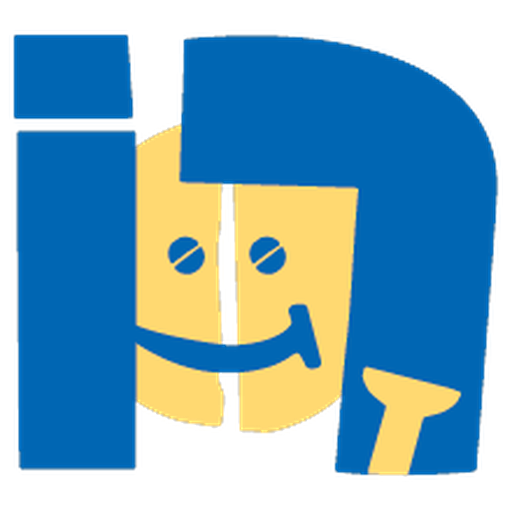
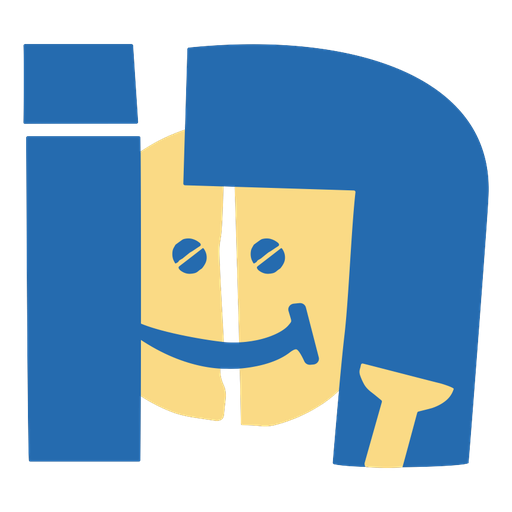
스마일 마크 — 벡터 원본에서 파비콘 세트(ico·32·apple-touch·192·512·manifest) 생성, 페이지 다섯 자리에 서명처럼 배치

diff --git a/index.html b/index.html
@@ -20,11 +20,14 @@
   <meta property="og:image:width" content="1200">
   <meta property="og:image:height" content="630">
   <meta name="twitter:card" content="summary_large_image">
-  <link rel="icon" href="favicon.png" type="image/png">
-  <link rel="apple-touch-icon" href="favicon.png">
   <link rel="preload" href="/fonts/a2z-400.woff2" as="font" type="font/woff2" crossorigin>
   <link rel="preload" href="/fonts/a2z-700.woff2" as="font" type="font/woff2" crossorigin>
-  <link rel="stylesheet" href="v6.css?v=81">
+  <link rel="stylesheet" href="v6.css?v=82">
+  <link rel="icon" href="/favicon.ico" sizes="48x48">
+  <link rel="icon" href="/favicon-32.png" type="image/png" sizes="32x32">
+  <link rel="apple-touch-icon" href="/apple-touch-icon.png">
+  <link rel="manifest" href="/site.webmanifest">
+  <meta name="theme-color" content="#FAF5EA">
 </head>
 <body>
 
@@ -98,7 +101,7 @@
         <p class="host__d">이 가치는 제가 만들어낸 게 아니에요. 넷째를 안고 물었던 질문, 시각디자이너로 해외에서 여러 일을 지나온 시간, 그리고 3년 동안 쪼이들 곁에서 본 것들이 쌓여서 된 거예요. 새로운 재료 앞에서 생각이 넓어진다는 걸, 제 삶으로 먼저 겪었으니까요.</p>
         <p class="host__d">인조이풀은 완성된 답을 파는 곳이 아니라, 저의 연구실이자 모든 사람의 작업실이에요. 오는 분들과 함께 쌓아가는 중입니다.</p>
         <p class="host__d">결과가 아니라 몰입 자체가 행복인 시간. 나의 이야기를 써내려갈 수 있도록 준비해 두었어요.</p>
-        <p class="host__d">인조이풀에서 만나요.</p>
+        <p class="host__d host__sign">인조이풀에서 만나요. <img class="mark-sm" src="/mark.png" alt="" aria-hidden="true"></p>
         <p class="host__cta">
           <a class="btn btn--ink btn--sm" href="/about/">인조이풀 소개 <i>→</i></a>
           <a class="btn btn--kakao btn--sm" href="/menu/">행복맛집 구경하기 <i>→</i></a>
@@ -284,7 +287,7 @@
       <a href="https://pf.kakao.com/_VgyqG" rel="noopener" target="_blank">카카오 채널</a>
       <a href="/en/" lang="en">English</a>
     </p>
-    <p class="foot__copy">ⓒ in:JOYFULL · CREA:D</p>
+    <p class="foot__copy"><img class="mark-xs" src="/mark.png" alt="" aria-hidden="true"> ⓒ in:JOYFULL · CREA:D</p>
   </footer>
 
   <script>

diff --git a/letters/index.html b/letters/index.html
@@ -5,9 +5,8 @@
   <meta name="viewport" content="width=device-width, initial-scale=1.0">
   <meta name="robots" content="noindex, nofollow">
   <title>인조이풀 레터 | 인조이풀</title>
-  <link rel="icon" href="/favicon.png" type="image/png">
   <link rel="preload" href="/fonts/a2z-400.woff2" as="font" type="font/woff2" crossorigin>
-  <link rel="stylesheet" href="/v6.css?v=81">
+  <link rel="stylesheet" href="/v6.css?v=82">
   <style>
     .lt { max-width: 44rem; margin: 0 auto; padding: 8.5rem var(--pad) 4rem; }
     .lt__head { text-align: center; }
@@ -58,6 +57,11 @@
     .viewer__wait { position: absolute; left: 0; right: 0; top: 50%; text-align: center; color: var(--paper); font-weight: 300; font-size: 0.95rem; }
     [hidden] { display: none !important; }
   </style>
+  <link rel="icon" href="/favicon.ico" sizes="48x48">
+  <link rel="icon" href="/favicon-32.png" type="image/png" sizes="32x32">
+  <link rel="apple-touch-icon" href="/apple-touch-icon.png">
+  <link rel="manifest" href="/site.webmanifest">
+  <meta name="theme-color" content="#FAF5EA">
 </head>
 <body>
 
@@ -88,6 +92,7 @@
     <div id="lock" hidden>
       <div class="lock">
         <h2 id="lockName">반 이름</h2>
+        <img class="mark-md mark-md--c" src="/mark.png" alt="" aria-hidden="true">
         <p>반에 안내드린 암호를 넣어주세요. 암호는 이 화면에서만 쓰이고 어디에도 저장되지 않아요.</p>
         <form class="lock__row" id="lockForm">
           <input id="pw" type="password" placeholder="암호" autocomplete="off" autocapitalize="off" spellcheck="false">
@@ -134,7 +139,7 @@
       <a href="https://pf.kakao.com/_VgyqG" rel="noopener" target="_blank">카카오 채널</a>
       <a href="/en/" lang="en">English</a>
     </p>
-    <p class="foot__copy">ⓒ in:JOYFULL · CREA:D</p>
+    <p class="foot__copy"><img class="mark-xs" src="/mark.png" alt="" aria-hidden="true"> ⓒ in:JOYFULL · CREA:D</p>
   </footer>
 
   <script>

diff --git a/test/index.html b/test/index.html
@@ -13,9 +13,8 @@
   <meta property="og:url" content="https://injoyfull.github.io/test/">
   <meta property="og:locale" content="ko_KR">
   <meta property="og:image" content="https://injoyfull.github.io/og.png?v=3">
-  <link rel="icon" href="/favicon.png" type="image/png">
   <link rel="preload" href="/fonts/a2z-400.woff2" as="font" type="font/woff2" crossorigin>
-  <link rel="stylesheet" href="/v6.css?v=81">
+  <link rel="stylesheet" href="/v6.css?v=82">
   <style>
     :root { --touch: #F0913F; --sound: #21A79A; --sight: #E86F92; --rhythm: #96B62B; }
     .quiz { max-width: 38rem; margin: 0 auto; padding: 8.5rem var(--pad) 4rem; text-align: center; }
@@ -81,6 +80,11 @@
     .rcard__tag { display: inline-block; margin-top: 0.6rem; font-weight: 400; font-size: 0.74rem; letter-spacing: 0.08em; padding: 0.3rem 0.75rem; border-radius: 999px; background: var(--butter-soft); color: var(--ink-soft); }
     [hidden] { display: none !important; }
   </style>
+  <link rel="icon" href="/favicon.ico" sizes="48x48">
+  <link rel="icon" href="/favicon-32.png" type="image/png" sizes="32x32">
+  <link rel="apple-touch-icon" href="/apple-touch-icon.png">
+  <link rel="manifest" href="/site.webmanifest">
+  <meta name="theme-color" content="#FAF5EA">
 </head>
 <body>
 
@@ -186,7 +190,7 @@
       <a href="https://pf.kakao.com/_VgyqG" rel="noopener" target="_blank">카카오 채널</a>
       <a href="/en/" lang="en">English</a>
     </p>
-    <p class="foot__copy">ⓒ in:JOYFULL · CREA:D</p>
+    <p class="foot__copy"><img class="mark-xs" src="/mark.png" alt="" aria-hidden="true"> ⓒ in:JOYFULL · CREA:D</p>
   </footer>
 
   <script>

diff --git a/menu/index.html b/menu/index.html
@@ -13,9 +13,13 @@
   <meta property="og:url" content="https://injoyfull.github.io/menu/">
   <meta property="og:locale" content="ko_KR">
   <meta property="og:image" content="https://injoyfull.github.io/og.png?v=3">
-  <link rel="icon" href="/favicon.png" type="image/png">
   <link rel="preload" href="/fonts/a2z-400.woff2" as="font" type="font/woff2" crossorigin>
-  <link rel="stylesheet" href="/v6.css?v=81">
+  <link rel="stylesheet" href="/v6.css?v=82">
+  <link rel="icon" href="/favicon.ico" sizes="48x48">
+  <link rel="icon" href="/favicon-32.png" type="image/png" sizes="32x32">
+  <link rel="apple-touch-icon" href="/apple-touch-icon.png">
+  <link rel="manifest" href="/site.webmanifest">
+  <meta name="theme-color" content="#FAF5EA">
 </head>
 <body>
 
@@ -34,6 +38,7 @@
   <main>
   <section class="menu">
     <div class="menu__head">
+      <img class="mark-md mark-md--c" src="/mark.png" alt="" aria-hidden="true">
       <span class="eyebrow">한나의 행복상자</span>
       <h1>행복 맛집 이야기</h1>
       <div class="menu__rule" aria-hidden="true"></div>
@@ -249,7 +254,7 @@
       <a href="https://pf.kakao.com/_VgyqG" rel="noopener" target="_blank">카카오 채널</a>
       <a href="/en/" lang="en">English</a>
     </p>
-    <p class="foot__copy">ⓒ in:JOYFULL · CREA:D</p>
+    <p class="foot__copy"><img class="mark-xs" src="/mark.png" alt="" aria-hidden="true"> ⓒ in:JOYFULL · CREA:D</p>
   </footer>
 
   <script>

diff --git a/about/index.html b/about/index.html
@@ -14,12 +14,15 @@
   <meta property="og:locale" content="ko_KR">
   <meta property="og:image" content="https://injoyfull.github.io/og.png?v=3">
   <meta name="twitter:card" content="summary_large_image">
-  <link rel="icon" href="/favicon.png" type="image/png">
-  <link rel="apple-touch-icon" href="/favicon.png">
   <link rel="preload" href="/fonts/a2z-400.woff2" as="font" type="font/woff2" crossorigin>
   <link rel="preload" href="/fonts/a2z-700.woff2" as="font" type="font/woff2" crossorigin>
-  <link rel="stylesheet" href="/v6.css?v=81">
+  <link rel="stylesheet" href="/v6.css?v=82">
   <link rel="stylesheet" href="/about/about.css?v=1">
+  <link rel="icon" href="/favicon.ico" sizes="48x48">
+  <link rel="icon" href="/favicon-32.png" type="image/png" sizes="32x32">
+  <link rel="apple-touch-icon" href="/apple-touch-icon.png">
+  <link rel="manifest" href="/site.webmanifest">
+  <meta name="theme-color" content="#FAF5EA">
 </head>
 <body>
 
@@ -39,6 +42,7 @@
 
   <!-- ① 인사 -->
   <section class="ahero">
+    <img class="mark-md" src="/mark.png" alt="" aria-hidden="true">
     <p class="eyebrow" lang="en">About</p>
     <h1>답이 정해지지 않은 재료로,<br><b>나만의 답을 만드는 곳</b></h1>
     <p class="ahero__sub">무엇을 믿고 이 문을 열었는지, 90분 안에서 무슨 일이 일어나는지 — 여기 적어둘게요.</p>

diff --git a/for-business/index.html b/for-business/index.html
@@ -14,12 +14,15 @@
   <meta property="og:locale" content="ko_KR">
   <meta property="og:image" content="https://injoyfull.github.io/og.png?v=3">
   <meta name="twitter:card" content="summary_large_image">
-  <link rel="icon" href="/favicon.png" type="image/png">
-  <link rel="apple-touch-icon" href="/favicon.png">
   <link rel="preload" href="/fonts/a2z-400.woff2" as="font" type="font/woff2" crossorigin>
   <link rel="preload" href="/fonts/a2z-700.woff2" as="font" type="font/woff2" crossorigin>
-  <link rel="stylesheet" href="/v6.css?v=81">
+  <link rel="stylesheet" href="/v6.css?v=82">
   <link rel="stylesheet" href="/for-business/biz.css?v=1">
+  <link rel="icon" href="/favicon.ico" sizes="48x48">
+  <link rel="icon" href="/favicon-32.png" type="image/png" sizes="32x32">
+  <link rel="apple-touch-icon" href="/apple-touch-icon.png">
+  <link rel="manifest" href="/site.webmanifest">
+  <meta name="theme-color" content="#FAF5EA">
 </head>
 <body>
 
@@ -165,7 +168,7 @@
       <a href="https://pf.kakao.com/_VgyqG" rel="noopener" target="_blank">카카오 채널</a>
       <a href="/en/" lang="en">English</a>
     </p>
-    <p class="foot__copy">ⓒ in:JOYFULL · CREA:D</p>
+    <p class="foot__copy"><img class="mark-xs" src="/mark.png" alt="" aria-hidden="true"> ⓒ in:JOYFULL · CREA:D</p>
   </footer>
 
   <script>

diff --git a/fall/index.html b/fall/index.html
@@ -13,11 +13,15 @@
   <meta property="og:url" content="https://injoyfull.github.io/fall/">
   <meta property="og:locale" content="ko_KR">
   <meta property="og:image" content="https://injoyfull.github.io/og.png?v=3">
-  <link rel="icon" href="/favicon.png" type="image/png">
   <link rel="preload" href="/fonts/a2z-400.woff2" as="font" type="font/woff2" crossorigin>
   <link rel="preload" href="/fonts/a2z-700.woff2" as="font" type="font/woff2" crossorigin>
-  <link rel="stylesheet" href="/v6.css?v=81">
+  <link rel="stylesheet" href="/v6.css?v=82">
   <link rel="stylesheet" href="/fall/fall.css?v=20">
+  <link rel="icon" href="/favicon.ico" sizes="48x48">
+  <link rel="icon" href="/favicon-32.png" type="image/png" sizes="32x32">
+  <link rel="apple-touch-icon" href="/apple-touch-icon.png">
+  <link rel="manifest" href="/site.webmanifest">
+  <meta name="theme-color" content="#FAF5EA">
 </head>
 <body class="fallpage">
 
@@ -305,7 +309,7 @@
       <a href="https://pf.kakao.com/_VgyqG" rel="noopener" target="_blank">카카오 채널</a>
       <a href="/en/" lang="en">English</a>
     </p>
-    <p class="foot__copy">ⓒ in:JOYFULL · CREA:D</p>
+    <p class="foot__copy"><img class="mark-xs" src="/mark.png" alt="" aria-hidden="true"> ⓒ in:JOYFULL · CREA:D</p>
   </footer>
 
   <script>

diff --git a/club/index.html b/club/index.html
@@ -13,11 +13,15 @@
   <meta property="og:url" content="https://injoyfull.github.io/club/">
   <meta property="og:locale" content="ko_KR">
   <meta property="og:image" content="https://injoyfull.github.io/og.png?v=3">
-  <link rel="icon" href="/favicon.png" type="image/png">
   <link rel="preload" href="/fonts/a2z-400.woff2" as="font" type="font/woff2" crossorigin>
   <link rel="preload" href="/fonts/a2z-700.woff2" as="font" type="font/woff2" crossorigin>
-  <link rel="stylesheet" href="/v6.css?v=81">
+  <link rel="stylesheet" href="/v6.css?v=82">
   <link rel="stylesheet" href="/club/club.css?v=5">
+  <link rel="icon" href="/favicon.ico" sizes="48x48">
+  <link rel="icon" href="/favicon-32.png" type="image/png" sizes="32x32">
+  <link rel="apple-touch-icon" href="/apple-touch-icon.png">
+  <link rel="manifest" href="/site.webmanifest">
+  <meta name="theme-color" content="#FAF5EA">
 </head>
 <body class="clubpage">
 
@@ -143,7 +147,7 @@
       <a href="https://pf.kakao.com/_VgyqG" rel="noopener" target="_blank">카카오 채널</a>
       <a href="/en/" lang="en">English</a>
     </p>
-    <p class="foot__copy">ⓒ in:JOYFULL · CREA:D</p>
+    <p class="foot__copy"><img class="mark-xs" src="/mark.png" alt="" aria-hidden="true"> ⓒ in:JOYFULL · CREA:D</p>
   </footer>
 
   <script>

diff --git a/notes/first-day/index.html b/notes/first-day/index.html
@@ -13,10 +13,14 @@
   <meta property="og:url" content="https://injoyfull.github.io/notes/first-day/">
   <meta property="og:locale" content="ko_KR">
   <meta property="og:image" content="https://injoyfull.github.io/og.png?v=3">
-  <link rel="icon" href="/favicon.png" type="image/png">
   <link rel="preload" href="/fonts/a2z-300.woff2" as="font" type="font/woff2" crossorigin>
   <link rel="preload" href="/fonts/a2z-400.woff2" as="font" type="font/woff2" crossorigin>
-  <link rel="stylesheet" href="/v6.css?v=81">
+  <link rel="stylesheet" href="/v6.css?v=82">
+  <link rel="icon" href="/favicon.ico" sizes="48x48">
+  <link rel="icon" href="/favicon-32.png" type="image/png" sizes="32x32">
+  <link rel="apple-touch-icon" href="/apple-touch-icon.png">
+  <link rel="manifest" href="/site.webmanifest">
+  <meta name="theme-color" content="#FAF5EA">
 </head>
 <body>
 
@@ -107,7 +111,7 @@
       <a href="https://pf.kakao.com/_VgyqG" rel="noopener" target="_blank">카카오 채널</a>
       <a href="/en/" lang="en">English</a>
     </p>
-    <p class="foot__copy">ⓒ in:JOYFULL · CREA:D</p>
+    <p class="foot__copy"><img class="mark-xs" src="/mark.png" alt="" aria-hidden="true"> ⓒ in:JOYFULL · CREA:D</p>
   </footer>
 
   <script>

diff --git a/notes/molip/index.html b/notes/molip/index.html
@@ -13,10 +13,14 @@
   <meta property="og:url" content="https://injoyfull.github.io/notes/molip/">
   <meta property="og:locale" content="ko_KR">
   <meta property="og:image" content="https://injoyfull.github.io/og.png?v=3">
-  <link rel="icon" href="/favicon.png" type="image/png">
   <link rel="preload" href="/fonts/a2z-300.woff2" as="font" type="font/woff2" crossorigin>
   <link rel="preload" href="/fonts/a2z-400.woff2" as="font" type="font/woff2" crossorigin>
-  <link rel="stylesheet" href="/v6.css?v=81">
+  <link rel="stylesheet" href="/v6.css?v=82">
+  <link rel="icon" href="/favicon.ico" sizes="48x48">
+  <link rel="icon" href="/favicon-32.png" type="image/png" sizes="32x32">
+  <link rel="apple-touch-icon" href="/apple-touch-icon.png">
+  <link rel="manifest" href="/site.webmanifest">
+  <meta name="theme-color" content="#FAF5EA">
 </head>
 <body>
 
@@ -127,7 +131,7 @@
       <a href="https://pf.kakao.com/_VgyqG" rel="noopener" target="_blank">카카오 채널</a>
       <a href="/en/" lang="en">English</a>
     </p>
-    <p class="foot__copy">ⓒ in:JOYFULL · CREA:D</p>
+    <p class="foot__copy"><img class="mark-xs" src="/mark.png" alt="" aria-hidden="true"> ⓒ in:JOYFULL · CREA:D</p>
   </footer>
 
   <script>

diff --git a/notes/why/index.html b/notes/why/index.html
@@ -13,10 +13,14 @@
   <meta property="og:url" content="https://injoyfull.github.io/notes/why/">
   <meta property="og:locale" content="ko_KR">
   <meta property="og:image" content="https://injoyfull.github.io/og.png?v=3">
-  <link rel="icon" href="/favicon.png" type="image/png">
   <link rel="preload" href="/fonts/a2z-300.woff2" as="font" type="font/woff2" crossorigin>
   <link rel="preload" href="/fonts/a2z-400.woff2" as="font" type="font/woff2" crossorigin>
-  <link rel="stylesheet" href="/v6.css?v=81">
+  <link rel="stylesheet" href="/v6.css?v=82">
+  <link rel="icon" href="/favicon.ico" sizes="48x48">
+  <link rel="icon" href="/favicon-32.png" type="image/png" sizes="32x32">
+  <link rel="apple-touch-icon" href="/apple-touch-icon.png">
+  <link rel="manifest" href="/site.webmanifest">
+  <meta name="theme-color" content="#FAF5EA">
 </head>
 <body>
 
@@ -91,7 +95,7 @@
       <a href="https://pf.kakao.com/_VgyqG" rel="noopener" target="_blank">카카오 채널</a>
       <a href="/en/" lang="en">English</a>
     </p>
-    <p class="foot__copy">ⓒ in:JOYFULL · CREA:D</p>
+    <p class="foot__copy"><img class="mark-xs" src="/mark.png" alt="" aria-hidden="true"> ⓒ in:JOYFULL · CREA:D</p>
   </footer>
 
   <script>

diff --git a/v6.css b/v6.css
@@ -645,3 +645,9 @@ p, li, .host__d, .why p, .quiz__sub, .quiz__more, .steps__note, .meet__note, .wc
 .foot__links a[href="/letters/"]::before { background: #B85C8A; }
 .top__link[href="/en/"]::before, .foot__links a[href="/en/"]::before, .foot__links a[href="/"]::before,
 .foot__links a[href^="https://blog"]::before, .foot__links a[href^="https://www.instagram"]::before, .foot__links a[href^="https://pf.kakao"]::before { display: none; }
+
+/* ── 스마일 마크 — 작은 서명처럼 ── */
+.mark-xs { width: 16px; height: 16px; vertical-align: -3px; margin-right: 0.3rem; }
+.mark-sm { width: 26px; height: 26px; vertical-align: -6px; margin-left: 0.35rem; }
+.mark-md { display: block; width: clamp(44px, 5vw, 60px); height: auto; margin-bottom: 1rem; }
+.mark-md--c { margin-left: auto; margin-right: auto; }
